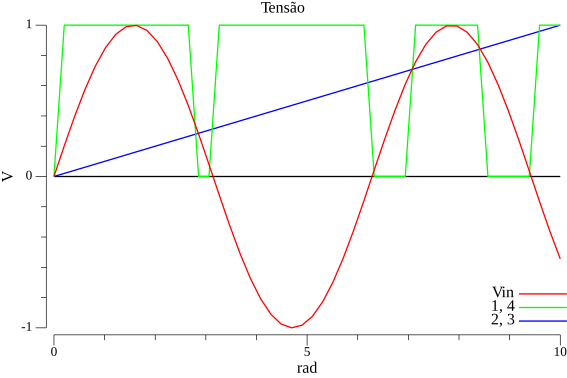
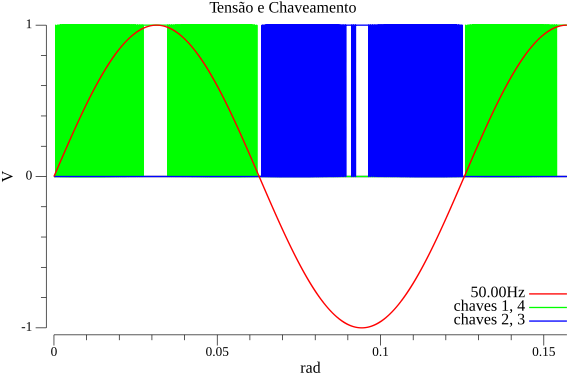
feat: agora vai! versão_final final (2)

diff --git a/main.go b/main.go
@@ -1,6 +1,7 @@
 package main
 
 import (
+	"fmt"
 	"image/color"
 	"math"
 
@@ -9,29 +10,14 @@ import (
 	"gonum.org/v1/plot/vg"
 )
 
-/* Lógica proposta pelo professor
-if (math.Sin(x) > 0) {
-	if (math.Sin(x) > triang) {
-		saida1, saida4 = 1, 1
-	} else {
-		saida1, saida4 = 0, 0
-	}
-}
-else (math.Sin(x) < 0) {
-	if (math.Sin(x) < triang) {
-		saida2, saida3 = 1, 1
-	} else {
-		saida2, saida3 = 0, 0
-	}
-}
-*/
-
 func sine(x float64) float64 {
-	return math.Sin(x)
+	return math.Sin(x * frequencia)
 }
 
 func triangular(x float64) float64 {
-	return x * 0.1
+	fTriang := 10000.0
+	// tTriang := 0.0001
+	return (2.0 / math.Pi) * math.Abs(math.Asin(math.Sin(2.0*math.Pi*fTriang*x)))
 }
 
 func firstGates(x float64) float64 {
@@ -41,8 +27,13 @@ func firstGates(x float64) float64 {
 		} else {
 			return 0.0
 		}
-	} else if sine(x) < 0 {
-		if sine(x) < triangular(x) {
+	}
+	return 0.0
+}
+
+func secondGates(x float64) float64 {
+	if sine(x) < 0 {
+		if -sine(x) > triangular(x) {
 			return 1.0
 		} else {
 			return 0.0
@@ -51,45 +42,56 @@ func firstGates(x float64) float64 {
 	return 0.0
 }
 
+var frequencia float64
+
 func main() {
 	p := plot.New()
 
-	p.Title.Text = "Tensão"
+	p.Title.Text = "Tensão e Chaveamento"
 	p.X.Label.Text = "rad"
 	p.Y.Label.Text = "V"
 
+	fmt.Print("Digite a frequência de operação do sinal base (Hz): ")
+	fmt.Scanln(&frequencia)
+
+	// Plot do eixo X
 	axis := plotter.NewFunction(func(x float64) float64 { return 0.0 })
 	axis.LineStyle = plotter.DefaultLineStyle
 	axis.Color = color.RGBA{R: 0, G: 0, B: 0, A: 255}
 
-	// Frequência de operação da senoide: 60Hz
-	// fSin := 60.0
-	// tSin := 0.016666667
+	// Plot da função seno com frequência de operação do sinal base determinada
 	sin := plotter.NewFunction(func(x float64) float64 { return sine(x) })
 	sin.Color = color.RGBA{R: 255, A: 255}
 
-	// Frequência de operação da função triangular de referência: 10000Hz
-	// fTriang := 10000.0
-	// tTriang := 0.0001
-	triang := plotter.NewFunction(func(x float64) float64 { return triangular(x) })
-	triang.Color = color.RGBA{B: 255, A: 255}
-
+	// Plot das chaves 1 e 4
 	upperGates := plotter.NewFunction(func(x float64) float64 { return firstGates(x) })
 	upperGates.Color = color.RGBA{G: 255, A: 255}
 
-	p.Add(axis, triang, upperGates, sin)
-	p.Legend.Add("Vin", sin)
-	p.Legend.Add("1, 4", upperGates)
-	p.Legend.Add("2, 3", triang)
-	p.Legend.ThumbnailWidth = 0.5 * vg.Inch
+	// Plot das chaves 2 e 3
+	lowerGates := plotter.NewFunction(func(x float64) float64 { return secondGates(x) })
+	lowerGates.Color = color.RGBA{B: 255, A: 255}
 
-	p.X.Min = 0
-	p.X.Max = 10
+	// Plot da funçao triangular utilizada para fins de debug
+	triang := plotter.NewFunction(func(x float64) float64 { return triangular(x) })
+	triang.Color = color.RGBA{G: 200, B: 200, A: 255}
 
-	p.Y.Min = -1
-	p.Y.Max = 1
+	sin.Samples, triang.Samples, upperGates.Samples, lowerGates.Samples = 10000, 10000, 10000, 10000
 
-	// Save the plot to a PNG file.
+	p.Add(axis, upperGates, lowerGates, sin)
+	// p.Add(axis, triang)
+
+	p.Legend.Add(fmt.Sprintf("%.2fHz", frequencia), sin)
+	p.Legend.Add("chaves 1, 4", upperGates)
+	p.Legend.Add("chaves 2, 3", lowerGates)
+	p.Legend.ThumbnailWidth = 1 * vg.Centimeter
+
+	p.X.Min = 0.0
+	p.X.Max = (2.5 * math.Pi) / frequencia
+
+	p.Y.Min = -1.0
+	p.Y.Max = 1.0
+
+	// Salvando a imagem de 15x10cm com nome 'resultado.png'
 	if err := p.Save(15*vg.Centimeter, 10*vg.Centimeter, "resultado.png"); err != nil {
 		panic(err)
 	}